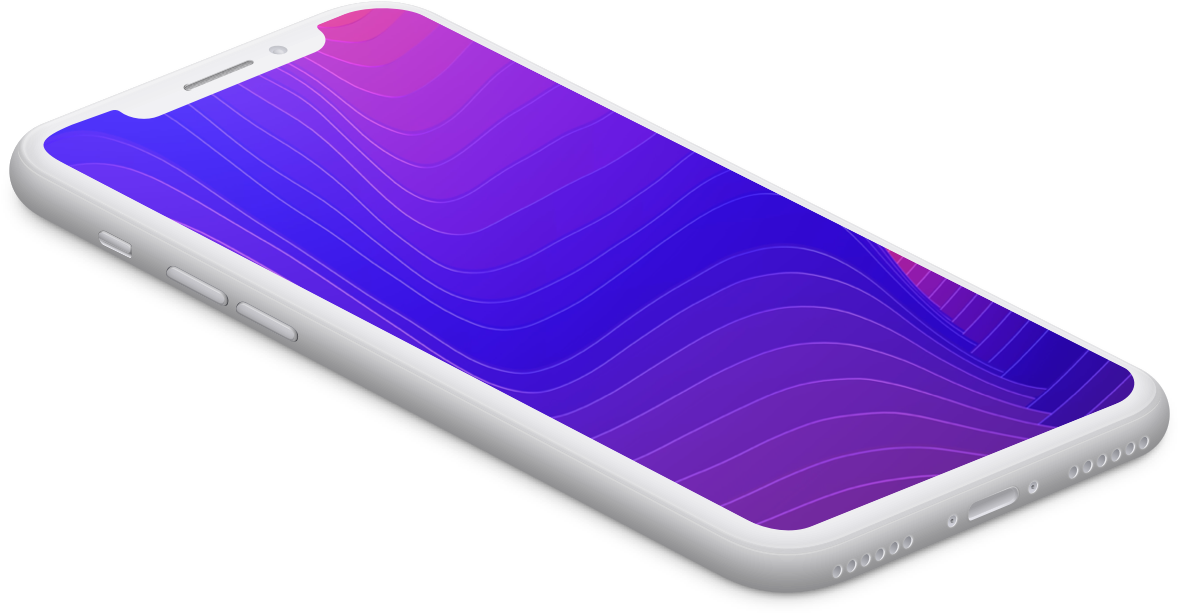
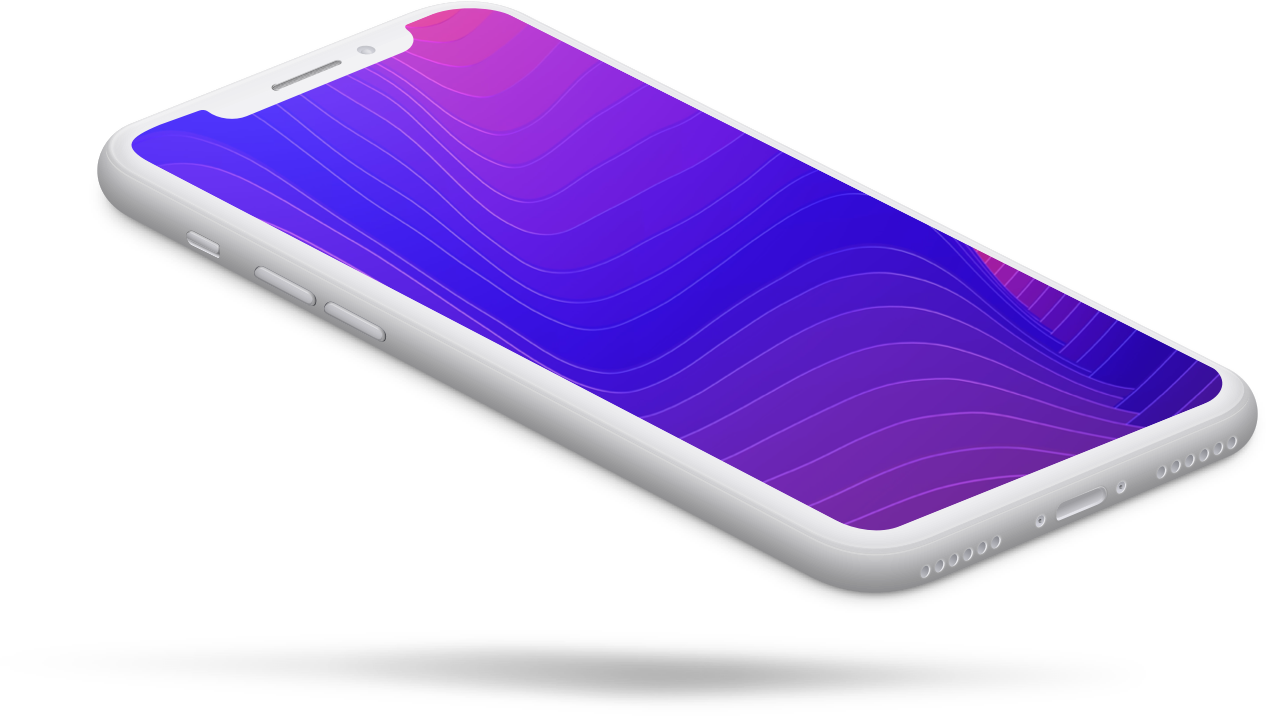
Keen mockups in place.

diff --git a/src/assets/styles/base/_case-study.scss b/src/assets/styles/base/_case-study.scss
@@ -170,10 +170,9 @@ $color-purple-section: #ECECF9;
     ----- */
 
     &--keen-1 {
-      padding-right: $spacing-9;
-      padding-top: $spacing-12;
-      visibility: hidden;
-      width: 85%;
+      padding-right: $spacing-8;
+      padding-top: $spacing-11;
+      width: 80%;
 
       @media screen and (min-width: map-get($breakpoints, "breakpoint-4")) {
         padding-right: $spacing-10;
@@ -184,26 +183,47 @@ $color-purple-section: #ECECF9;
     &--keen-2 {
       padding-top: $spacing-12;
       left: $spacing-5;
-      visibility: hidden;
       width: 80%;
     }
 
     &--keen-3 {
       right: $spacing-9;
-      visibility: hidden;
       width: 40%;
     }
 
     &--keen-4 {
-      top: $spacing-10;
+      top: $spacing-13;
       width: 80%;
+
+      @media screen and (min-width: map-get($breakpoints, "breakpoint-6")) {
+        top: $spacing-10;
+      }
     }
 
     &--keen-5 {
-        bottom: $spacing-8;
+        bottom: $spacing-13;
         right: $spacing-9;
         width: 50%;
+
+        @media screen and (min-width: map-get($breakpoints, "breakpoint-6")) {
+          bottom: $spacing-8;
+        }
       }
+
+    &--keen-6 {
+      padding-bottom: $spacing-6;
+      padding-right: $spacing-8;
+      padding-top: $spacing-10;
+    }
+
+    &--keen-7 {
+      padding: $spacing-10 $spacing-8;
+    }
+
+    &--keen-8 {
+      padding-right: $spacing-9;
+      padding-top: $spacing-9;
+    }
 
     /* -----
 
